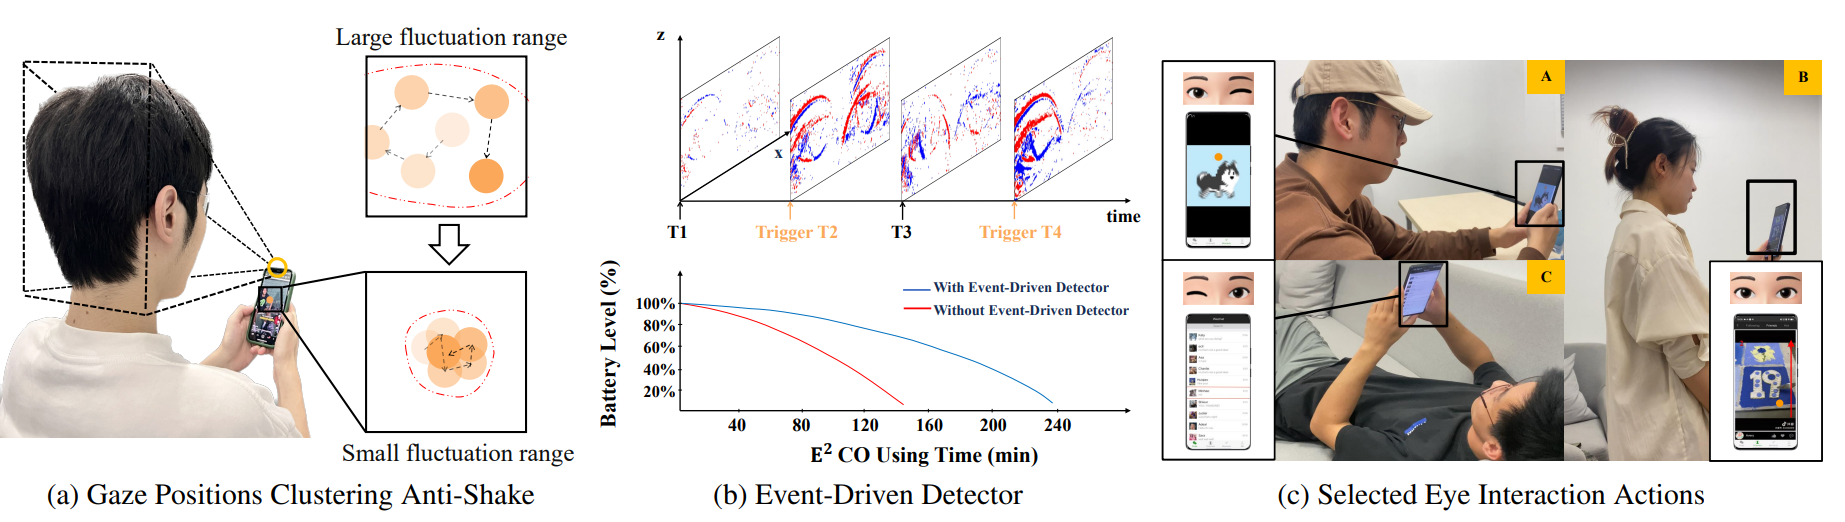
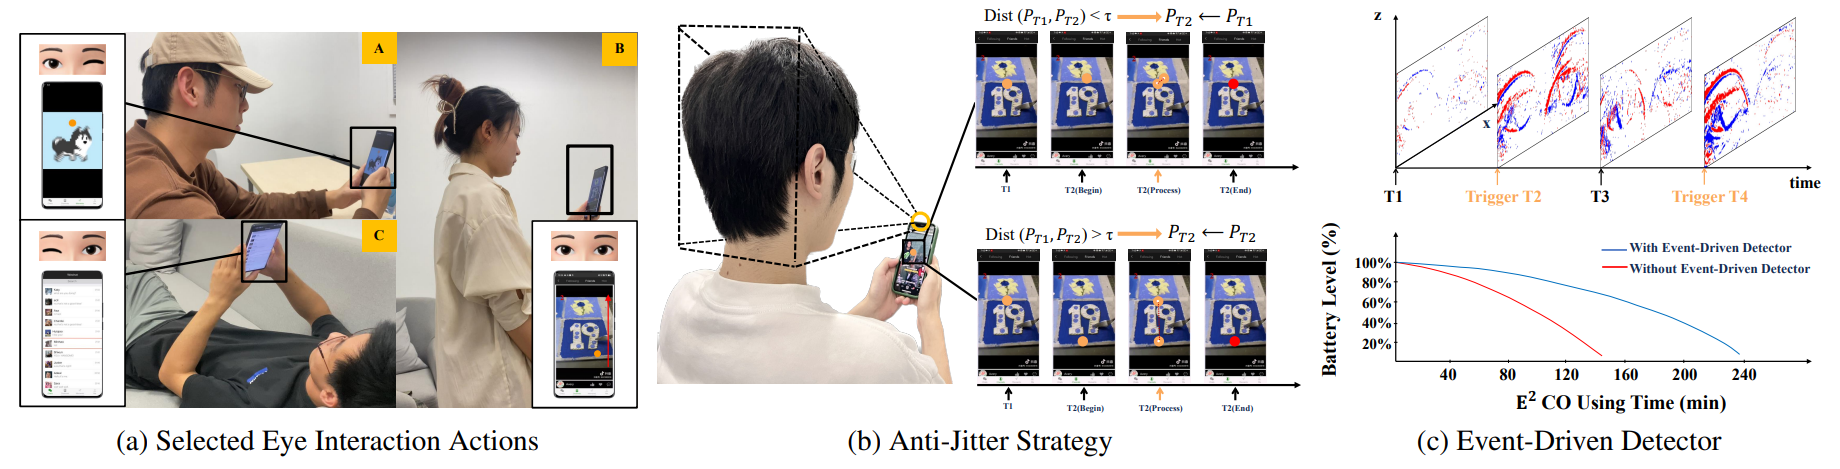
update

diff --git a/project_pages/E2CO.html b/project_pages/E2CO.html
@@ -1,10 +1,10 @@
 <!DOCTYPE html PUBLIC "-//W3C//DTD XHTML 1.0 Transitional//EN" "http://www.w3.org/TR/xhtml1/DTD/xhtml1-transitional.dtd">
 <html xmlns="http://www.w3.org/1999/xhtml">
 <head><meta http-equiv="Content-Type" content="text/html; charset=UTF-8">
-    <title>E²CO</title>
+    <title>E²GCO</title>
     <!--=================Meta tags==========================-->
     <meta name="robots" content="index,follow">
-    <meta name="description" content="ALL-E: Aesthetics-guided Low-light Image Enhancement">
+    <meta name="description" content="E²GCO: Event-driven Eye-Gaze-Controlled Operation for Smartphone Interaction">
     <meta name="keywords" content="E2CO">
     <link rel="author" href="https://dongl-group.github.io">
     <!--=================js==========================-->
@@ -141,22 +141,23 @@
     <div id="content">
         <div id="content-inner">
             <div class="section head">
-                <h1>E²CO: Event-driven Eye-controlled Operation for Smartphone Interaction</h1>
+                <h1>E²GCO: Event-driven Eye-Gaze-Controlled Operation for Smartphone Interaction</h1>
                 <!--=================Authors==========================-->
                 <div class="authors" >
-                    <p>Shaoming Yan <sup>1</sup>, &nbsp;Yuanliang Ju<sup>1</sup>,&nbsp;Rong Quan <sup>1</sup>, &nbsp;
-                     Huawei Tu <sup>2</sup>, &nbsp;Dong Liang <sup>1</sup> &nbsp;</p>
+                    <p>Shaoming Yan <sup>1</sup>, &nbsp;Yuanliang Ju<sup>2</sup>,&nbsp;Rong Quan <sup>1</sup>, &nbsp;
+                     Huawei Tu <sup>3</sup>, &nbsp;Dong Liang <sup>1</sup> &nbsp;</p>
                 </div>
                 <div class="affiliations ">
                     <sup>1</sup> College of Computer Science and Technology, Nanjing University of Aeronautics and Astronautics, Nanjing, China <br>
-                    <sup>2</sup> Department of Computer Science and Information Technology, La Trobe University, Melbourne, Australia <br>
+                    <sup>2</sup> Shanghai Qi Zhi Institute, Shanghai, China <br>
+                    <sup>3</sup> Department of Computer Science and Information Technology, La Trobe University, Melbourne, Australia <br>
                 </div>
             </div>
             <br/>
             <!--=================Gif================================-->
             <div class="section" id="Visualization">
                 <h2>Visualization Results</h2>
-                <h3>Demonstration of E²CO Eight Actions</h3>
+                <h3>Demonstration of E²GCO Eight Actions</h3>
                 <!--=================*******==========================-->
                 <div id="visulization" class="video_container">
                     <ol>
@@ -230,10 +231,7 @@
                 <br>
                 <div style="text-align: justify; display: block; margin-right: auto;">
                     <p>
-                        This paper introduces E²CO, an Event-driven Eye-Controlled Operation that enables eye-gaze smartphone interactions without using hands. E²CO aims to address the following limitations of existing eye-gaze interaction methods for smartphones. (1) The front camera of a smartphone usually has limited perceptual capabilities, and gaze estimation is a typically difficult task for small target acquisition. (2) In real-world usage, significant relative motion between smartphones and users’ eyes complicates their interaction. Even with an accurate gaze estimation algorithm, estimating this relative motion is difficult, thus hindering precise eye control interaction. (3) The computing resources and power resources of smartphones are usually limited compared to desktop computers.
-                    </p>
-                    <p>
-                        E²CO employs a lightweight gaze-estimation module with a robust Gaze Positions Clustering Anti-Shake, allowing reliable gaze acquisition. E²CO utilizes the principle of event cameras to optimize the activation and deactivation of the system, significantly reducing power consumption. E²CO designs a series of robust and easily distinguishable actions based on the users’ gaze positions, gaze gestures, dwell time, and eye blinks, allowing for operations on various smartphone pages, even when gaze estimation is less than perfect. We have implemented a prototype of E²CO on smartphones and conducted an extensive user study to validate its efficacy. The results of this study showcase E²CO’s precise control capabilities across various scenarios.
+                        Existing gaze-based smartphone interaction methods generally need the auxiliary of hand motions to realize control, and most of them can achieve only simple control operations, which are far from practical smartphone control. To this end, we propose a novel eye-gaze-based smartphone interaction method named Event-driven Eye-Gaze-Controlled Operation (E²GCO), which can realize comprehensive smartphone control operations just using human eyes and gazes. We designed four pairs of eye-gaze-based interaction actions that are easy to implement and distinguish, based on which E²GCO can control all kinds of smartphone pages. Before the interaction, an anti-jitter strategy-based gaze estimation method is exploited to solve the jitter problem of human eye fixation and detect both accurate and stable human gaze locations on smartphone screens, even when the users are moving. The interaction can be executed more accurately based on the stable and accurate gaze locations. In addition, the event camera technology is introduced in E²GCO to significantly decrease its power consumption, making E²GCO more power-efficient to deploy on smartphones. We have implemented the prototype of E²GCO on different brands of smartphones and conducted a comprehensive user study to validate its efficacy. The user study demonstrate E²GCO's superior smartphone control capabilities across various scenarios. 
                     </p>
                     </div>
                 <div id="img_intro_examples" class="img_container">
@@ -248,8 +246,8 @@
                 </div>
                 <div class="section">
                     <ol>
-                        <p><b>Demonstration of the E²CO system features.</b>
-                            (a) The range of the user’s gaze position fluctuation is significantly reduced with the help of the Gaze Positions Clustering Anti-Shake. (b) When more than 10% of the event pixels are detected, the camera triggers the event and records the activity (such as T2 and T4), thus greatly reducing the recording of extraneous data. A comparison of the percentage of battery power over the same usage time for E²CO with and without the event-driven detector enabled. (c) We designed eight actions for E²CO system interactions, and this figure shows three: A. Back; B. Switch to Next; C. Click</p>
+                        <p><b>Illustration of E²GCO's Anti-Jitter Strategy (a), Event-Driven Detector (b), and Interaction actions (c).</b>
+                            (a) When the distance between the predicted gaze positions of adjacent frames is less than the threshold τ, the gaze position of the current frame is adjusted to the position of the previous frame, otherwise it remains unchanged. (b) When more than 10% pixels of one frame are 'events', $E²GCO$ triggers the event and perform gaze estimation (such as T2 and T4). Such technology greatly reduce the gaze estimation times. A comparison of the usage time for the same amount of power with and without event camera technology for E²GCO. (c) We designed eight actions for $E²GCO$ system interactions, and show three examples here. A. Back. B. Switch to Next. C. Click</p>
                     </ol>
                 </div>
             </div>
@@ -303,7 +301,7 @@
             </div>
             <div class="section">
                 <ol>
-                    <p><b>The actions and user tests corresponding to the E²CO.</b>
+                    <p><b>The actions and user tests corresponding to the E²GCO.</b>
                         (a) Gazing at the “Bottom” area to swipe the page up, (b) Gazing at the “Top” area to swipe the page down, (c) Staring at the “Left” area to switch to the left page, (d) Staring
                         at the “Right” area to switch to the right page, (e) Swiftly shifting gaze from “Bottom” to “Up” to switch to the next short video, (f) Swiftly
                         shifting gaze from “Up” to “Bottom” to switch to the previous short video, (g) Closing the right eye and keeping the left eye open to click
